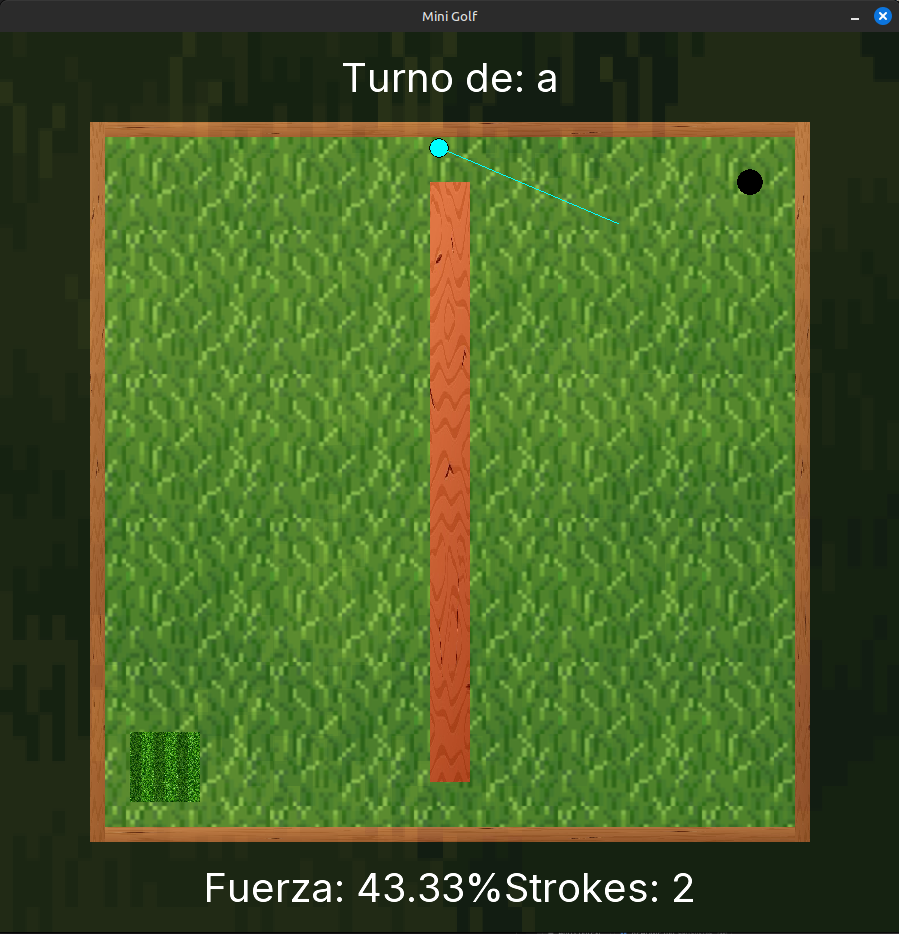
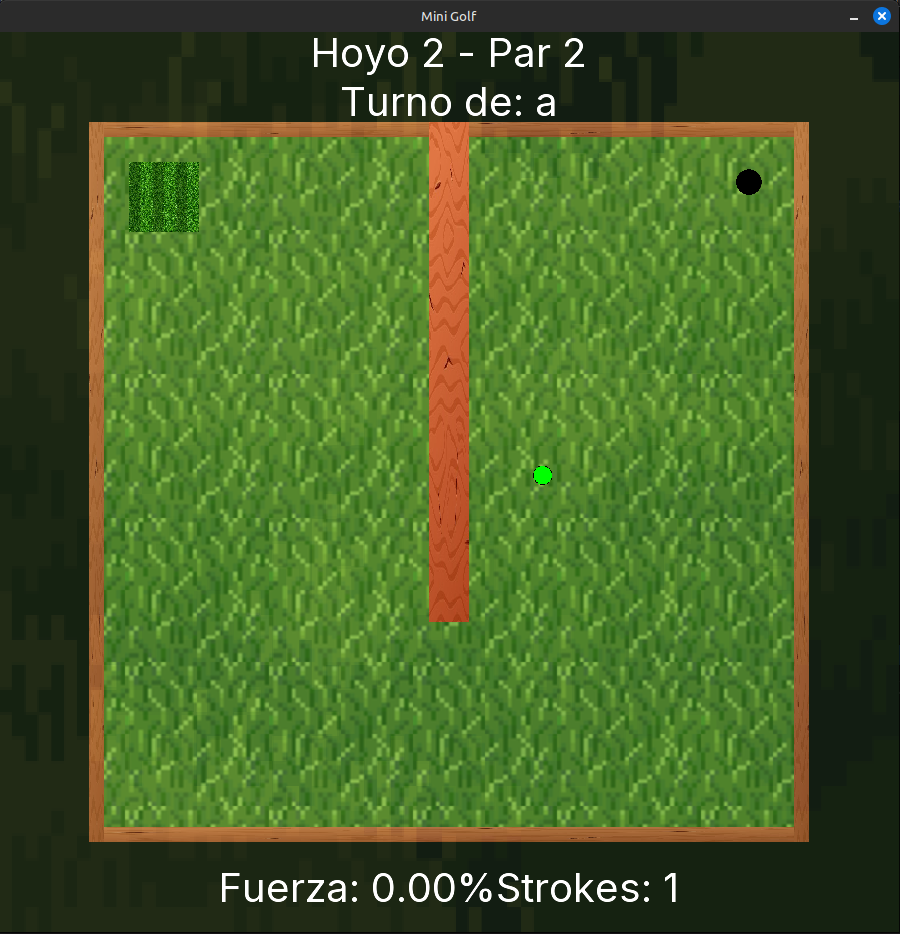
- Label información del hoyo

diff --git a/proyectoGradle/core/src/main/java/com/minigolf/screens/jugarGolfScreen.java b/proyectoGradle/core/src/main/java/com/minigolf/screens/jugarGolfScreen.java
@@ -64,6 +64,7 @@ public class jugarGolfScreen implements Screen {
     private Table tablePrincipal;
     private Label infoLabel;
     private Label informacionTurno;
+    private Label informacionHoyo;
     private BitmapFont font;
     private Texture texturePared;
     private Texture texturaHoyo;
@@ -231,8 +232,13 @@ public class jugarGolfScreen implements Screen {
         infoLabel = new Label("", labelPrincipalStyle);
         infoLabel.setAlignment(Align.center);
 
-        // Agregamos el label al table de arriba
-        tableArriba.add(infoLabel).center();
+        // Label para mostrar información del hoyo actual y par
+        informacionHoyo = new Label("", labelPrincipalStyle);
+        informacionHoyo.setAlignment(Align.center);
+
+        // Agregamos los labels al table de arriba en dos filas
+        tableArriba.add(informacionHoyo).center().row(); // Primera fila: información del hoyo
+        tableArriba.add(infoLabel).center(); // Segunda fila: información del turno
         tableArriba.center();
 
         // Finalmente, agregamos este actor con todas sus cosas al tablePrincipal
@@ -331,6 +337,11 @@ public class jugarGolfScreen implements Screen {
 
         // Actualizamos las posiciones de las pelotas visuales
         actualizarPosicionesPelotas();
+
+        // Actualizamos la información del hoyo actual
+        int numeroHoyo = nivelActual;
+        int parHoyo = getParDelHoyo(numeroHoyo);
+        informacionHoyo.setText("Hoyo " + numeroHoyo + " - Par " + parHoyo);
 
         // Aquí limpiamos las bolas (si es necesario)
         limpiarBodiesMundo(true);
@@ -967,5 +978,21 @@ public class jugarGolfScreen implements Screen {
     // Método getter para el stage
     public Stage getStage() {
         return stage;
+    }
+
+    // Método para obtener el par del hoyo actual
+    private int getParDelHoyo(int numeroHoyo) {
+        // Array con los valores de par para cada hoyo (índices 0-17 para niveles 1-18)
+        int[] pares = { 2, 2, 4, 5, 4, 5, 5, 9, 10, 12, 4, 7, 14, 14, 14, 9, 8, 4 };
+        
+        // Convertimos el número de nivel (1-18) a índice del array (0-17)
+        int indice = numeroHoyo - 1;
+        
+        if (indice >= 0 && indice < pares.length) {
+            return pares[indice];
+        }
+
+        // En caso de error, se devuelve un -1
+        return -1;
     }
 }
